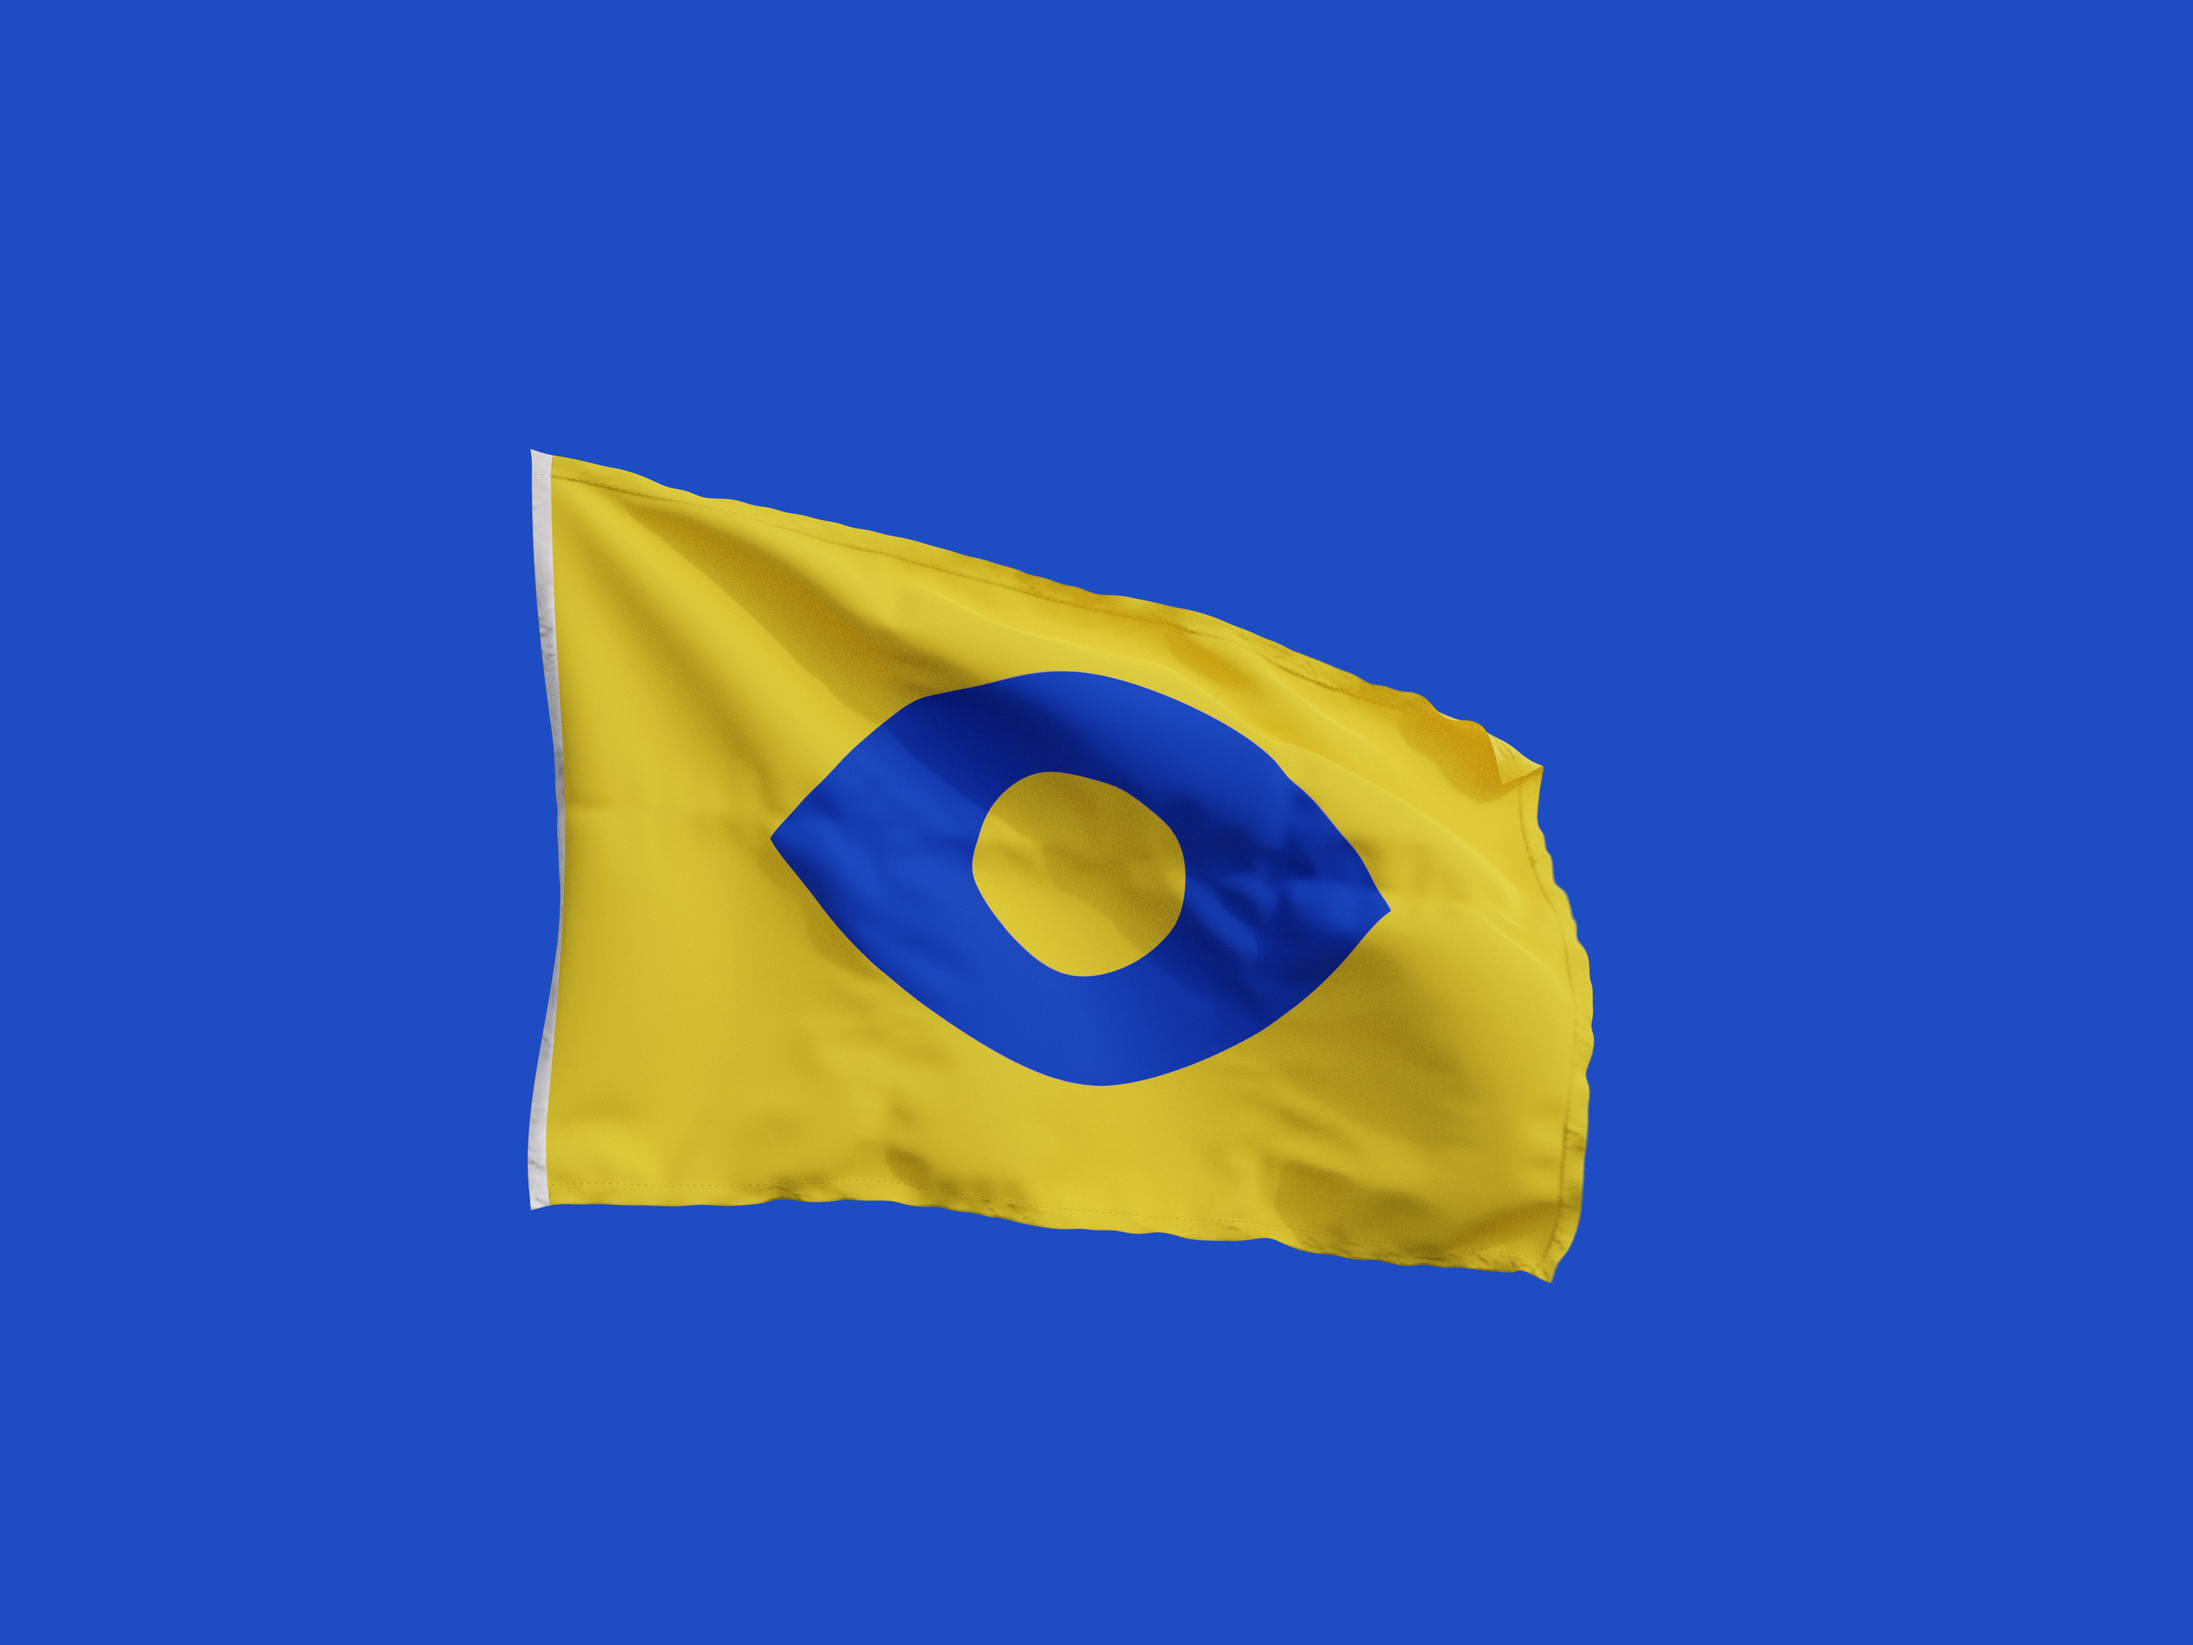
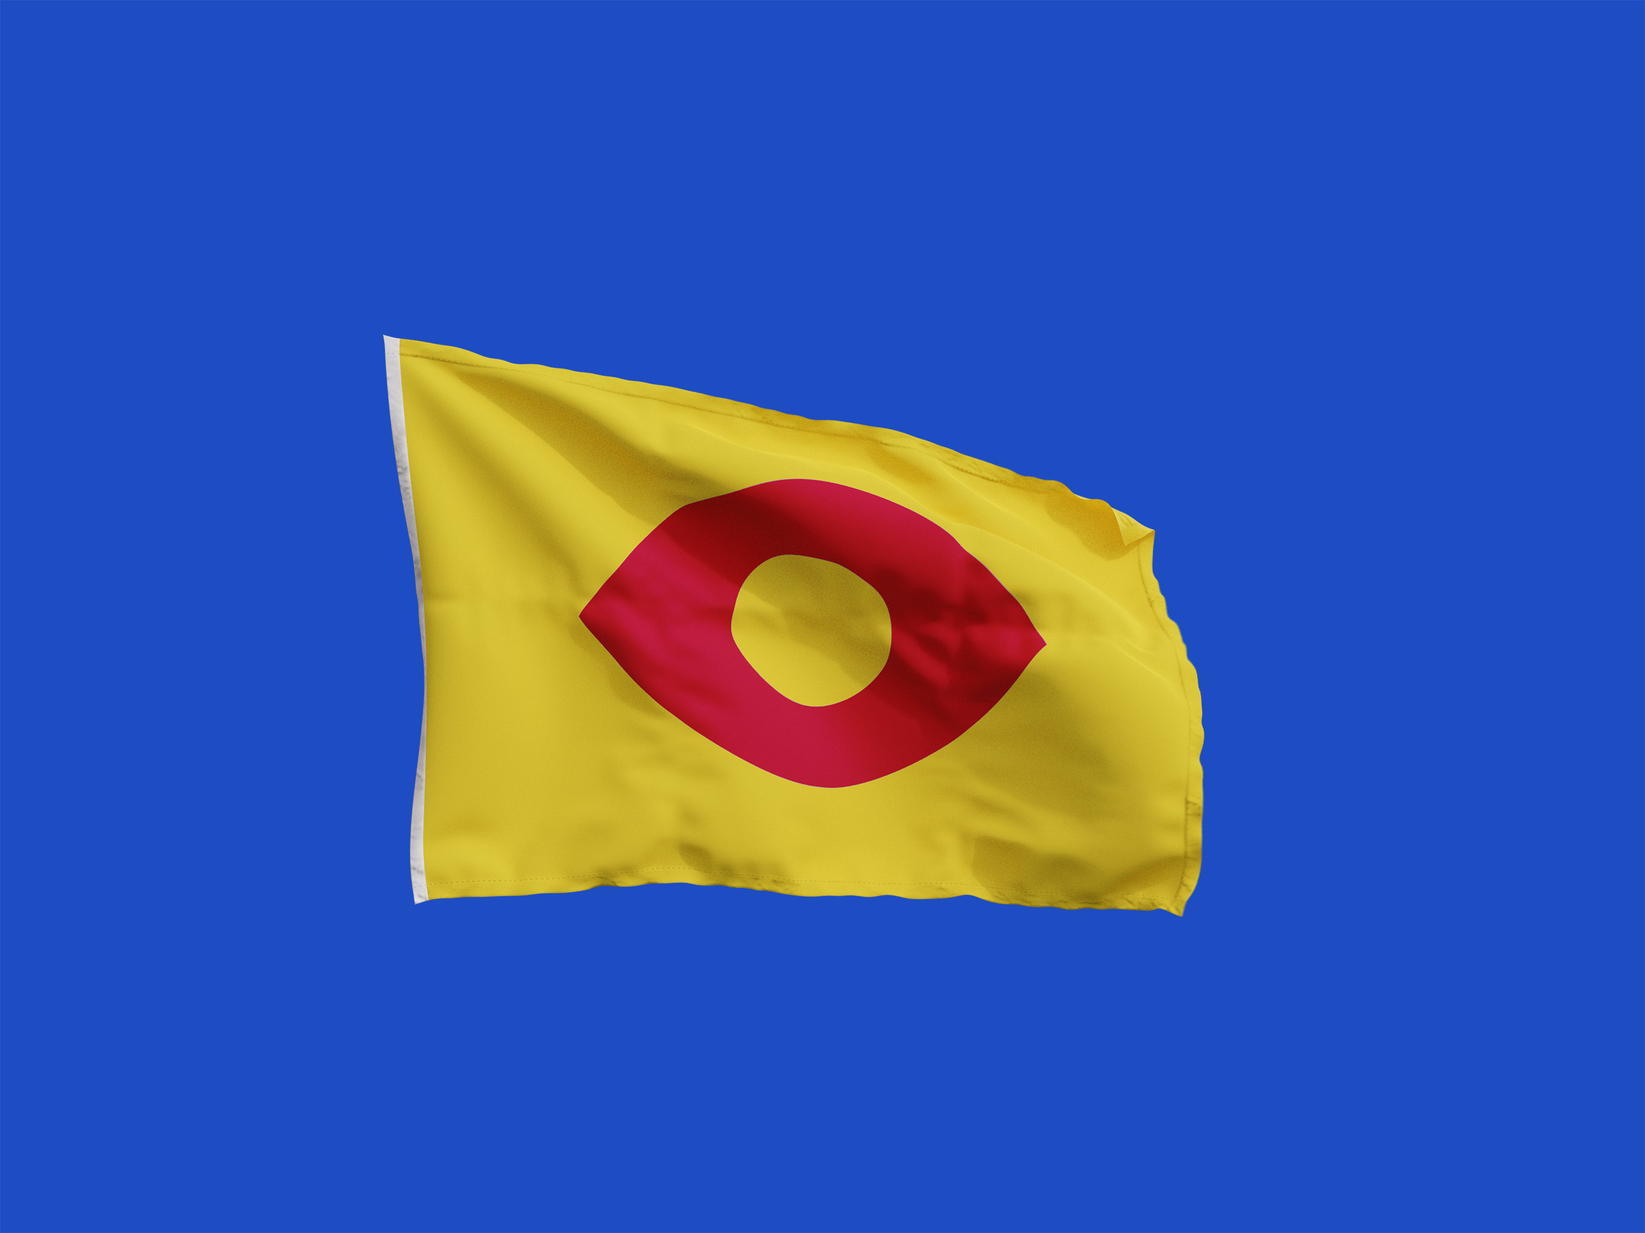
eurasia

Changed region(s): [[0.2188, 0.2792, 0.75, 0.7755]]

diff --git a/vexillography.html b/vexillography.html
@@ -61,7 +61,7 @@
     </div>
     <div class="row">
       <img src="images/flag-swe-mikael-westman.jpg">
-      <p class="image-description">Not sure what this is, but it looks nice.</p>
+      <p class="image-description">Eurasia — One of the superstates from George Orwell's '1984'.</p>
     </div>
   </div>
   <projects-component></projects-component>
